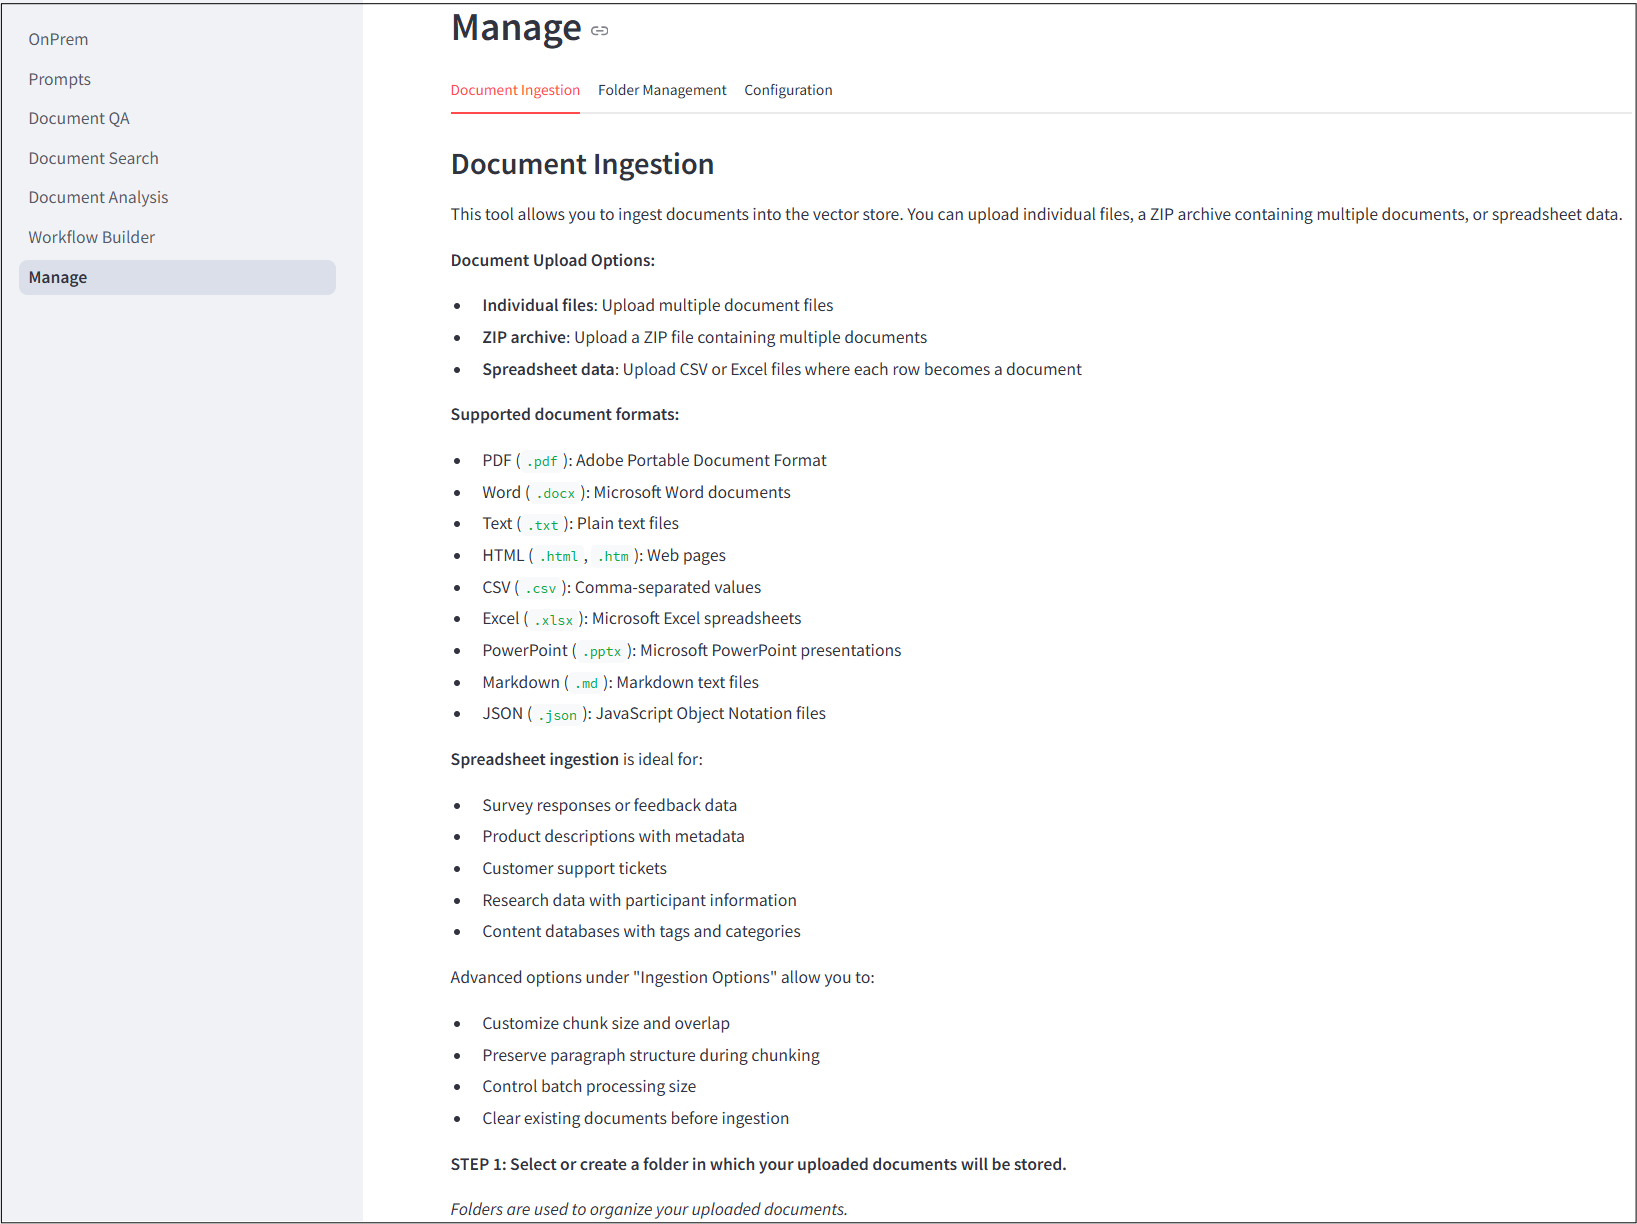
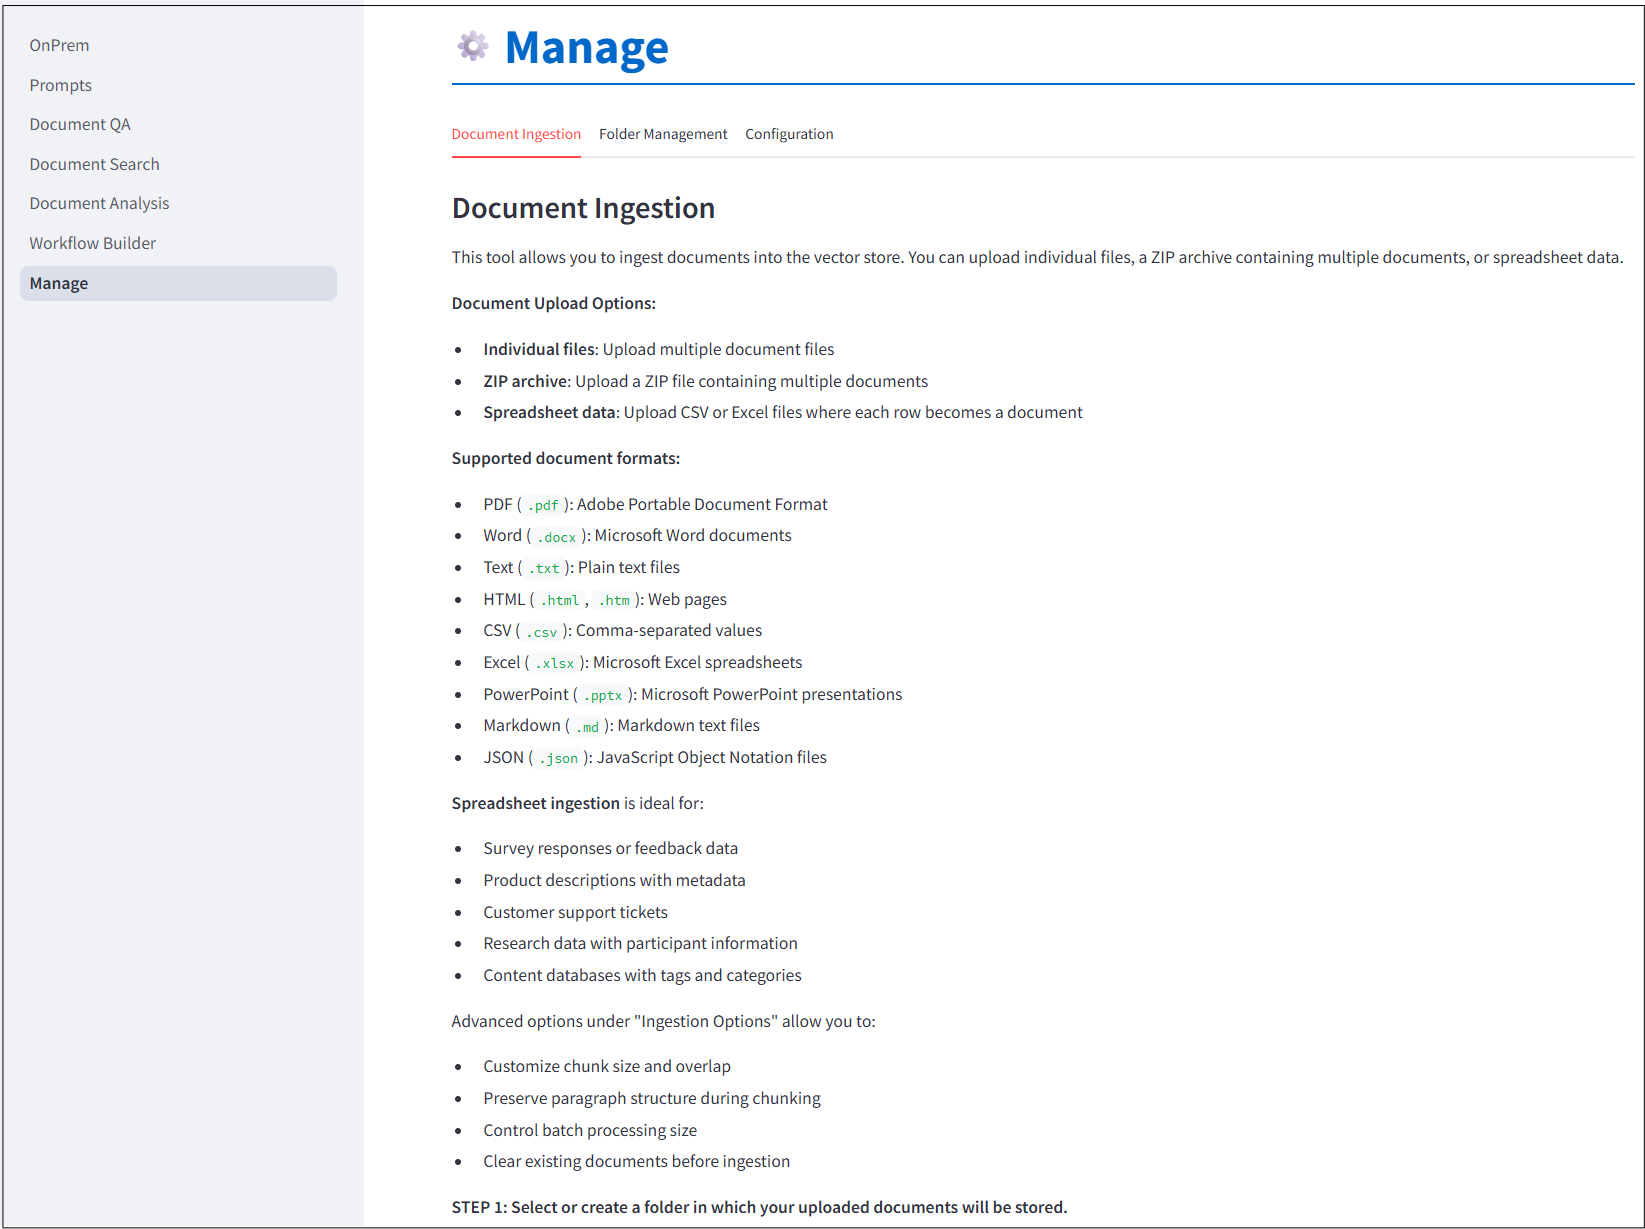
ui update

Changed region(s): [[0.2492, 0.0, 1.0, 1.0], [0.0, 0.0, 0.0935, 0.2484]]

diff --git a/onprem/app/pages/6_Manage.py b/onprem/app/pages/6_Manage.py
@@ -30,7 +30,19 @@ def main():
         st.info("To enable access, set 'show_manage: TRUE' in the configuration file.")
         return
     
-    st.header("Manage")
+    st.markdown("""
+    <h1 style="
+        color: #0068c9;
+        padding-bottom: 0.5rem;
+        border-bottom: 2px solid #0068c9;
+        margin-bottom: 1.5rem;
+        display: flex;
+        align-items: center;
+    ">
+        <span style="font-size: 1.8rem; margin-right: 0.5rem;">⚙</span> 
+        Manage
+    </h1>
+    """, unsafe_allow_html=True)
     
     # Create tabs for different settings with updated order
     tab1, tab3, tab2 = st.tabs(["Document Ingestion", "Folder Management", "Configuration"])

diff --git a/onprem/app/OnPrem.py b/onprem/app/OnPrem.py
@@ -114,7 +114,19 @@ def main():
         )
     
     # Home page content
-    st.header("Welcome to OnPrem.LLM")
+    st.markdown("""
+    <h1 style="
+        color: #0068c9;
+        padding-bottom: 0.5rem;
+        border-bottom: 2px solid #0068c9;
+        margin-bottom: 1.5rem;
+        display: flex;
+        align-items: center;
+    ">
+        <span style="font-size: 1.8rem; margin-right: 0.5rem;">🏠</span> 
+        Welcome to OnPrem.LLM
+    </h1>
+    """, unsafe_allow_html=True)
     
     # Load LLM to get model name
     ## 2025-04-09: commenting this out, a streamlit is reloading the again model in other pages
